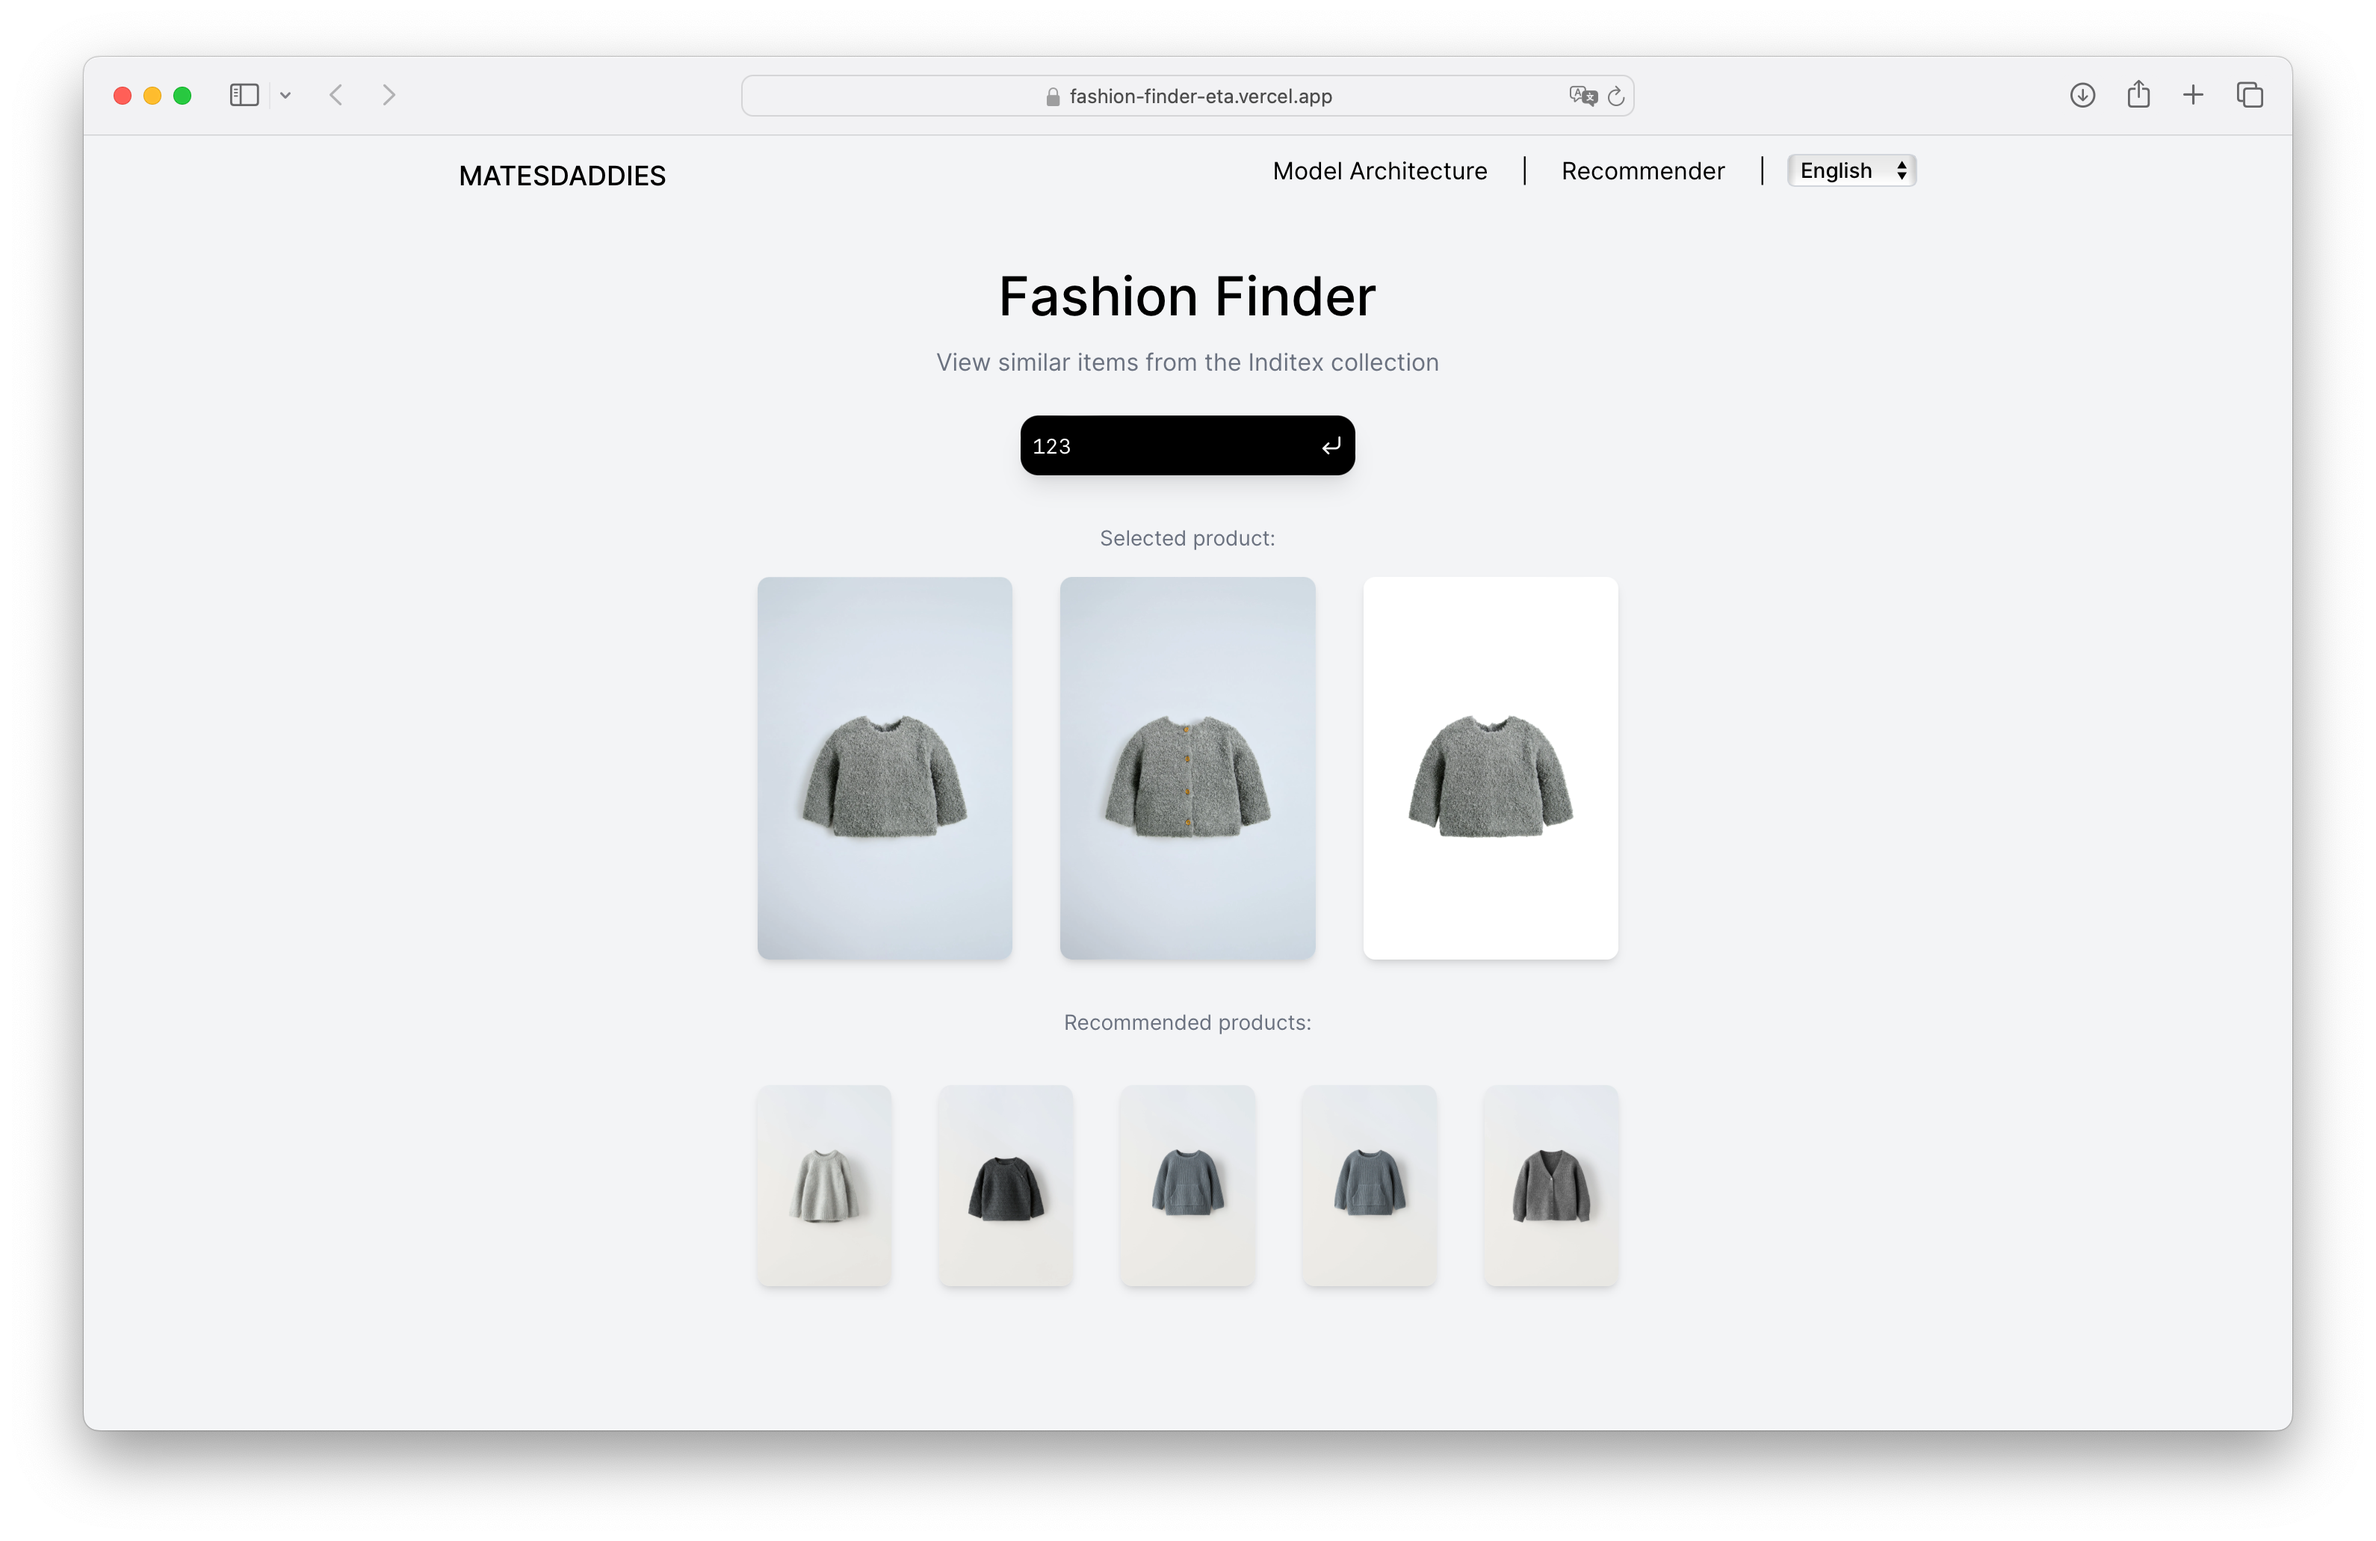
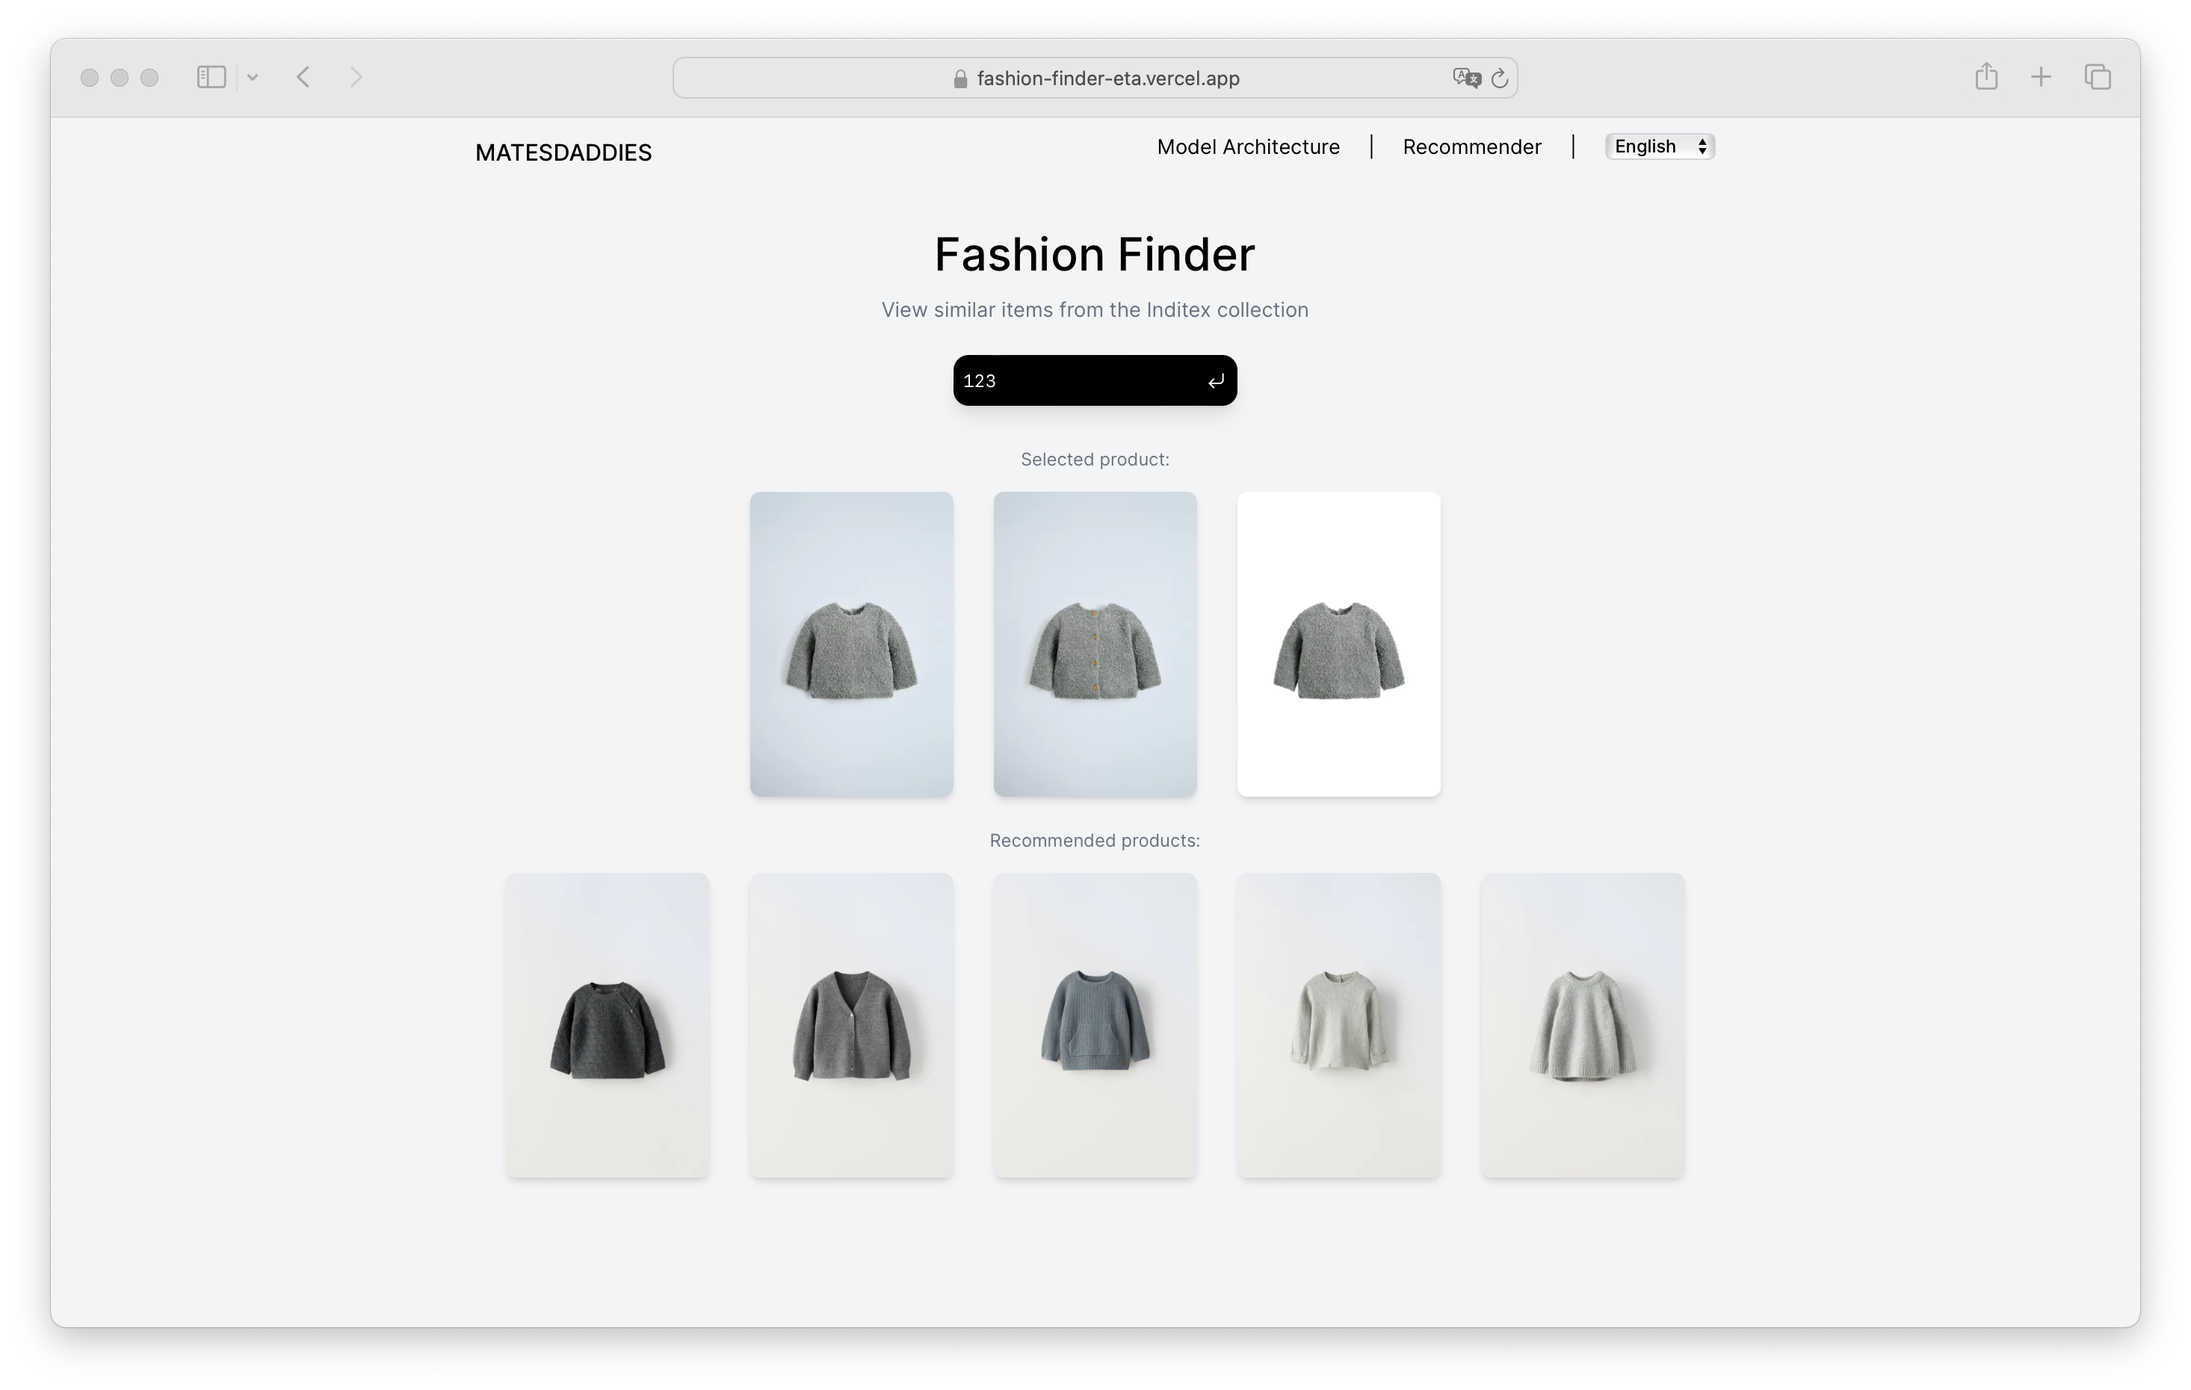
feat: ui touch-ups

diff --git a/src/app/page.tsx b/src/app/page.tsx
@@ -30,48 +30,48 @@ export default function Home() {
   }, [id]);
 
   return (
-    <>
-      <div className="py-12 sm:py-8 flex flex-col items-center justify-center">
-        <h1 className="font-medium text-4xl text-black mb-3">
-          <IntlMessage id="title" />
-        </h1>
-        <p className="text-gray-500 mb-6 text-base">
-          <IntlMessage id="subtitle" />
-        </p>
+    <div className="py-12 sm:py-8 flex flex-col items-center justify-center">
+      <h1 className="font-medium text-4xl text-black mb-3">
+        <IntlMessage id="title" />
+      </h1>
+      <p className="text-gray-500 mb-6 text-base text-center">
+        <IntlMessage id="subtitle" />
+      </p>
 
-        <div className="max-w-[38rem] space-y-4">
-          <Submit id={id} setId={setId} />
+      <div className="max-w-[38rem] space-y-4">
+        <Submit id={id} setId={setId} />
 
-          {id >= 0 && (
-            <div className="pt-4">
-              <p className="text-gray-500 text-sm mx-auto flex justify-center">
-                <IntlMessage id="image-selected" />
-              </p>
-              <div className="flex justify-center items-center">
-                <ImageCard path={`/api/image/${id}/0`} />
-                <ImageCard path={`/api/image/${id}/1`} />
-                <ImageCard path={`/api/image/${id}/2`} />
-              </div>
+        {id >= 0 && (
+          <div className="pt-4">
+            <p className="text-gray-500 text-sm mx-auto flex justify-center">
+              <IntlMessage id="imageSelected" />
+            </p>
+            <div className="flex justify-center items-center">
+              <ImageCard path={`/api/image/${id}/0`} />
+              <ImageCard path={`/api/image/${id}/1`} />
+              <ImageCard path={`/api/image/${id}/2`} />
             </div>
-          )}
-          {similar && similar[0] && (
-            <>
-              <p className="text-gray-500 text-sm mx-auto flex justify-center">
-                <IntlMessage id="image-recommendations" />
-              </p>
-              <div className="flex justify-center items-center">
-                {similar.slice(1, 6).map((item, index) => (
-                  <ImageCard
-                    key={index}
-                    path={`/api/image/${item.index}/0`}
-                    link={item.link_1}
-                  />
-                ))}
-              </div>
-            </>
-          )}
-        </div>
+          </div>
+        )}
       </div>
-    </>
+      <div className="pt-2">
+        {similar && similar[0] && (
+          <>
+            <p className="text-gray-500 text-sm mx-auto flex justify-center">
+              <IntlMessage id="imageRecommendations" />
+            </p>
+            <div className="flex flex-wrap justify-center">
+              {similar.slice(1, 6).map((item, index) => (
+                <ImageCard
+                  key={index}
+                  path={`/api/image/${item.index}/0`}
+                  link={item.link_1}
+                />
+              ))}
+            </div>
+          </>
+        )}
+      </div>
+    </div>
   );
 }

diff --git a/src/components/dropdown.tsx b/src/components/dropdown.tsx
@@ -23,9 +23,9 @@ export default function DropDown({
   options,
 }: DropDownProps) {
   return (
-    <Menu as="div" className="relative max-w-md">
+    <Menu as="div" className="relative min-w-36">
       <div>
-        <Menu.Button className="max-w-md inline-flex justify-between items-center rounded-md border border-gray-300 bg-white px-4 py-2 text-gray-700 shadow-sm hover:bg-gray-50 focus:outline-none focus:ring-2 focus:ring-black">
+        <Menu.Button className="min-w-36 inline-flex justify-between items-center rounded-md border border-gray-300 bg-white px-4 py-2 text-gray-700 shadow-sm hover:bg-gray-50 focus:outline-none focus:ring-2 focus:ring-black">
           {option}
           <ChevronUpIcon
             className="-mr-1 ml-2 h-5 w-5 ui-open:hidden"
@@ -48,7 +48,7 @@ export default function DropDown({
         leaveTo="transform opacity-0 scale-95"
       >
         <Menu.Items
-          className="z-50 left-0 max-w-md absolute right-0 mt-2 origin-top-right rounded-md bg-white shadow-lg ring-1 ring-black ring-opacity-5 focus:outline-none"
+          className="z-50 left-0 min-w-36 absolute right-0 mt-2 origin-top-right rounded-md bg-white shadow-lg ring-1 ring-black ring-opacity-5 focus:outline-none"
           key={option}
         >
           <div>
@@ -60,13 +60,13 @@ export default function DropDown({
                     className={classNames(
                       active ? "bg-gray-100 text-gray-900" : "text-gray-700",
                       option === optionItem ? "bg-gray-200" : "",
-                      "px-4 py-2 text-sm max-w-md text-left flex items-center space-x-2 justify-between"
+                      "px-4 py-2 text-sm flex items-center space-x-2 justify-between min-w-36 rounded-md"
                     )}
                   >
                     <span>{optionItem}</span>
-                    {option === optionItem ? (
+                    {option === optionItem && (
                       <CheckIcon className="w-4 h-4 text-bold" />
-                    ) : null}
+                    )}
                   </button>
                 )}
               </Menu.Item>

diff --git a/src/components/footer.tsx b/src/components/footer.tsx
@@ -4,39 +4,38 @@ export default function Footer() {
   return (
     <footer className="bg-black text-white">
       <div className="max-w-5xl mx-auto py-8">
-        <p className="text-sm flex items-center">
-          <span className="flex-grow text-center">
+        <div className="text-sm flex items-center justify-center">
+          <span className="flex-grow flex justify-center">
             <a
               href="https://github.com/marcfranquesa/fashion-finder-website"
-              className="ml-4 bg-transparent underline-offset-4 hover:underline hover:bg-transparent"
+              className="bg-transparent underline-offset-4 hover:underline hover:bg-transparent max-w-10 flex flex-col items-center"
             >
-              <span className="pr-2">Website</span>
               <Image
                 src="/github.svg"
                 alt="github-logo"
                 width={27}
                 height={27}
-                className="inline pb-1"
+                className="pb-2"
               />
+              Website
             </a>
           </span>
-          <span className=""></span>
-          <span className="flex-grow text-center">
+          <span className="flex-grow flex justify-center">
             <a
               href="https://github.com/maurofr/fashion-finder-model"
-              className="ml-4 bg-transparent underline-offset-4 hover:underline hover:bg-transparent"
+              className="bg-transparent underline-offset-4 hover:underline hover:bg-transparent max-w-10 flex flex-col items-center"
             >
-              <span className="pr-2">Model</span>
               <Image
                 src="/github.svg"
                 alt="github-logo"
                 width={27}
                 height={27}
-                className="inline pb-1"
+                className="pb-2"
               />
+              Model
             </a>
           </span>
-        </p>
+        </div>
       </div>
     </footer>
   );

diff --git a/src/components/image-card.tsx b/src/components/image-card.tsx
@@ -5,7 +5,7 @@ export function ImageCard({ path, link }: { path: string; link?: string }) {
   const [isHovered, setIsHovered] = useState(false);
 
   return (
-    <div className="max-w-md transition-transform duration-300 ease-in-out hover:scale-105">
+    <div className="transition-transform duration-300 ease-in-out hover:scale-105">
       <div
         className={`inner-container p-4 ${isHovered ? "hover-scale" : ""}`}
         onMouseEnter={() => setIsHovered(true)}
@@ -18,12 +18,10 @@ export function ImageCard({ path, link }: { path: string; link?: string }) {
               process.env.NEXT_PUBLIC_MAIN_URL! +
               path
             }
-            width={200}
-            height={100}
+            width={160}
+            height={200}
             alt={path}
-            layout="responsive"
-            objectFit="cover"
-            className="rounded-lg shadow-md w-full h-auto"
+            className="fill rounded-lg shadow-md"
           />
         </a>
       </div>

diff --git a/src/app/recommender/page.tsx b/src/app/recommender/page.tsx
@@ -89,10 +89,10 @@ export default function Page() {
       <h1 className="font-medium text-4xl text-black mb-3 animate-in fade-in slide-in-from-bottom-3 duration-1000 ease-in-out">
         <IntlMessage id="recommenderTitle" />
       </h1>
-      <p className="text-gray-500 mb-6 text-base">
+      <p className="text-gray-500 mb-6 text-base text-center">
         <IntlMessage id="recommenderSubtitle" />
       </p>
-      <div className="flex flex-row flex-wrap gap-4">
+      <div className="flex flex-row flex-wrap gap-4 justify-center">
         <DropDown
           option={color}
           setOption={(newOption) => setColor(newOption)}
@@ -120,7 +120,7 @@ export default function Page() {
         />
       </div>
       {similar && similar[0] && (
-        <div className="flex justify-center items-center pt-6">
+        <div className="flex flex-wrap justify-center pt-6">
           {similar.slice(0, 5).map((item, index) => (
             <ImageCard
               key={index}

diff --git a/src/components/navbar.tsx b/src/components/navbar.tsx
@@ -56,7 +56,7 @@ export default function Navbar({
               <IntlMessage id="recommenderTitle" />
             </span>
           </Link>
-          <span className="px-2">|</span>
+          <span className="px-2 pr-4">|</span>
           <LocaleSwitcher locale={locale} />
         </div>
       </div>
